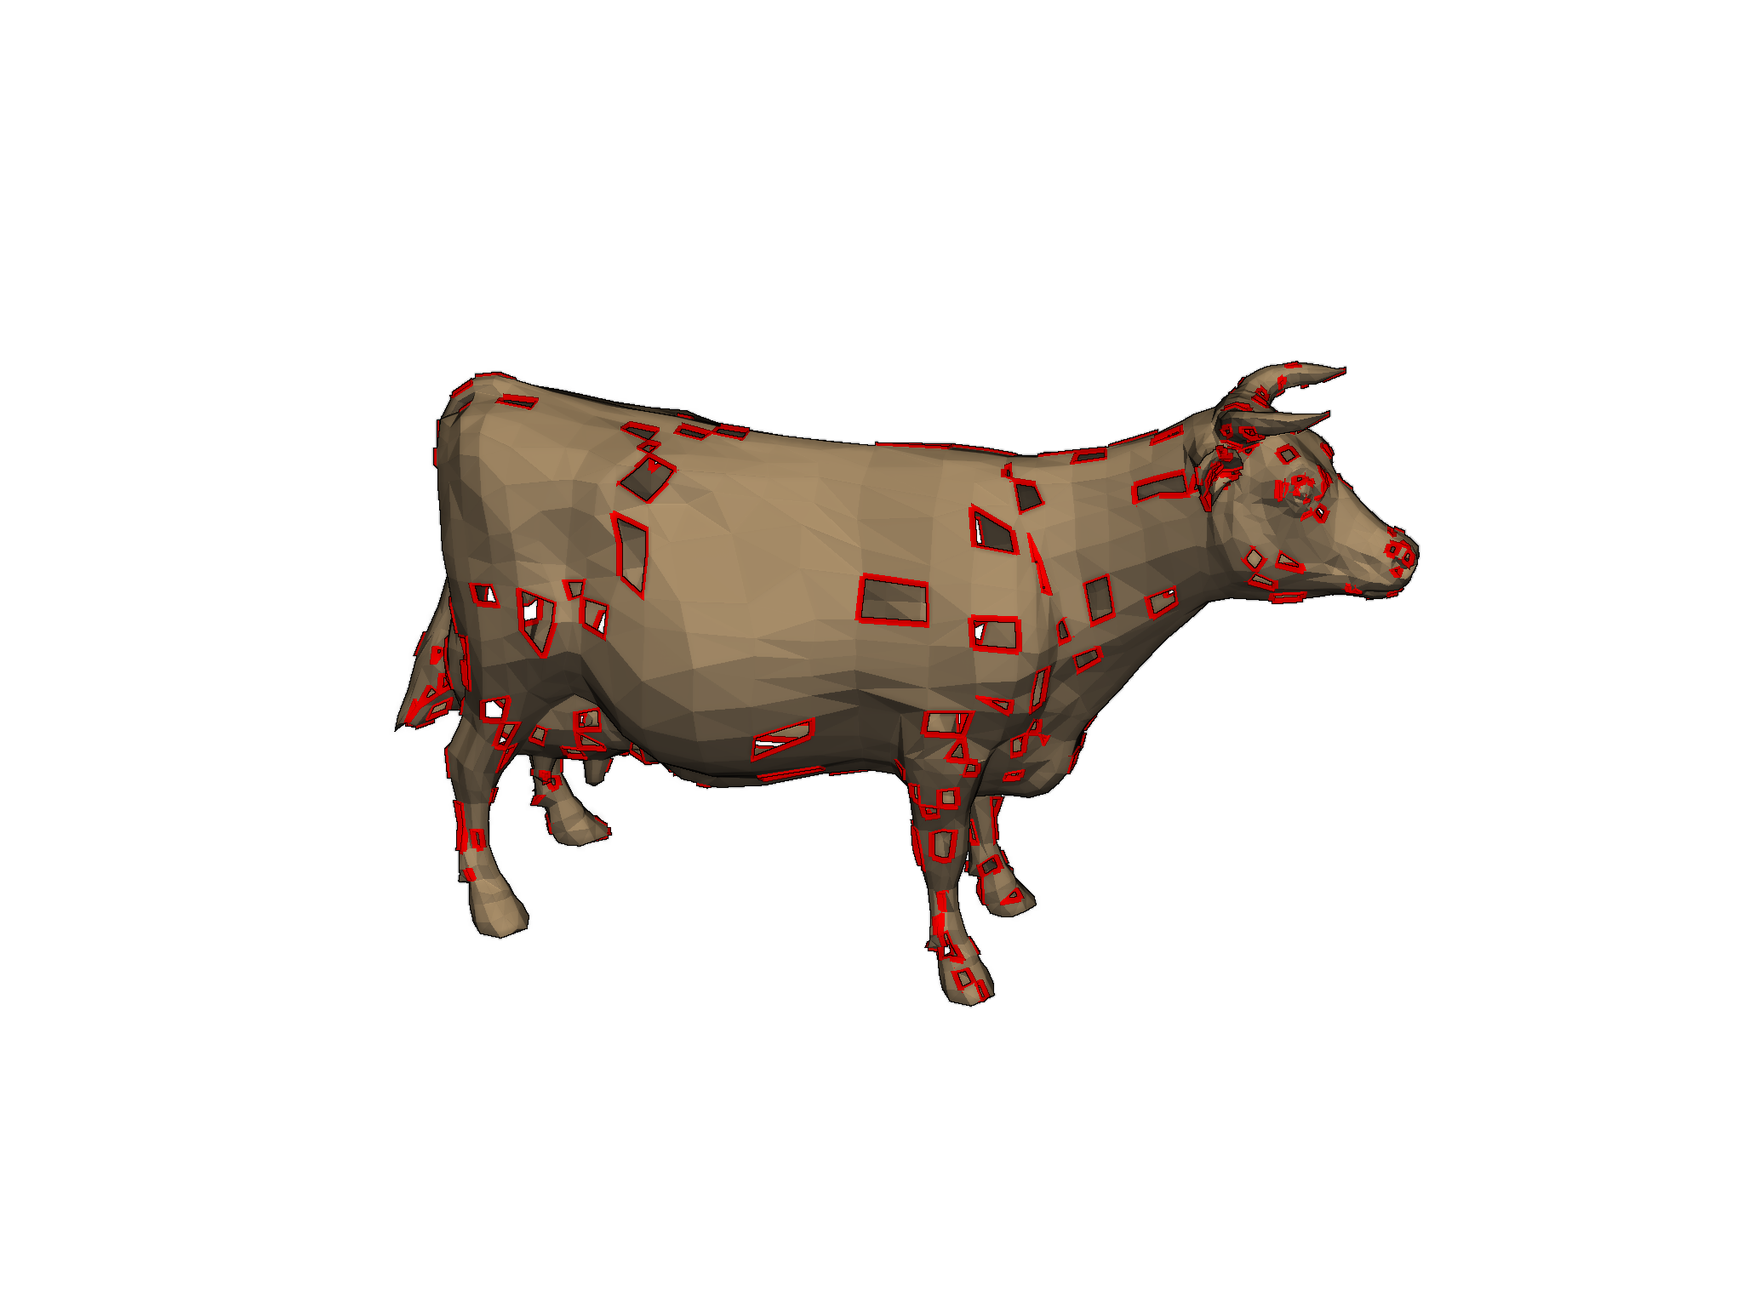
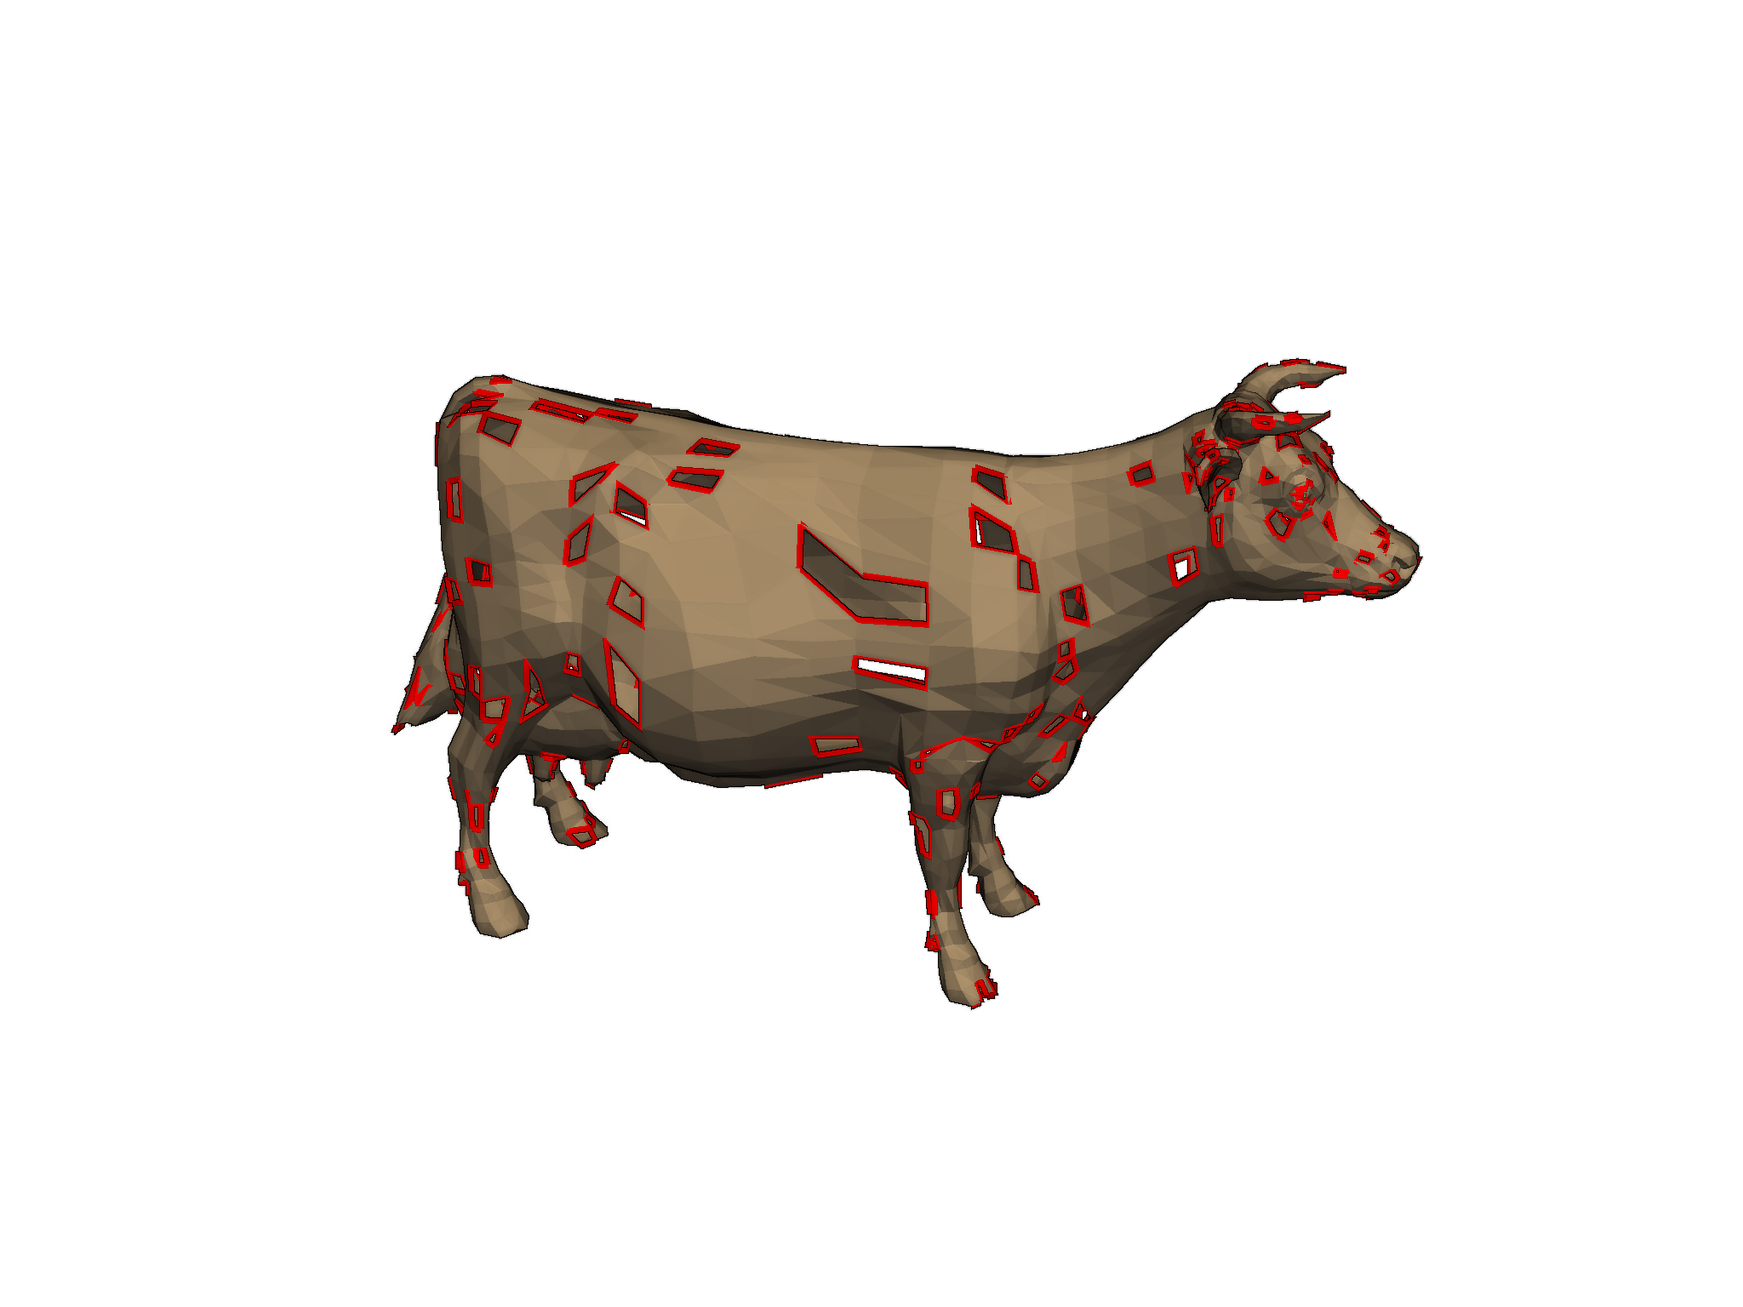
Update docs after building Travis build 119 of pyvista/pymeshfix
The docs were built from the branch 'master' against the commit
058998d0c117db93a4dd94bfe229dd86a3ef59d1.

The Travis build that generated this commit is at
https://travis-ci.org/pyvista/pymeshfix/jobs/648109961.

The doctr command that was run is

    /home/travis/virtualenv/python3.7.1/bin/doctr deploy --built-docs ./docs/_build/html/ .

diff --git a/searchindex.js b/searchindex.js
@@ -1,1 +1,1 @@
-Search.setIndex({docnames:["api","examples/bunny","examples/cow","examples/index","examples/repair_planar","examples/sg_execution_times","examples/torso","index"],envversion:{"sphinx.domains.c":1,"sphinx.domains.changeset":1,"sphinx.domains.cpp":1,"sphinx.domains.javascript":1,"sphinx.domains.math":2,"sphinx.domains.python":1,"sphinx.domains.rst":1,"sphinx.domains.std":1,sphinx:56},filenames:["api.rst","examples/bunny.rst","examples/cow.rst","examples/index.rst","examples/repair_planar.rst","examples/sg_execution_times.rst","examples/torso.rst","index.rst"],objects:{"pymeshfix.MeshFix":{extract_holes:[0,1,1,""],load_arrays:[0,1,1,""],mesh:[0,2,1,""],plot:[0,1,1,""],repair:[0,1,1,""],save:[0,1,1,""],write:[0,1,1,""]},pymeshfix:{MeshFix:[0,0,1,""],_meshfix:[0,3,0,"-"],meshfix:[0,3,0,"-"]}},objnames:{"0":["py","class","Python class"],"1":["py","method","Python method"],"2":["py","attribute","Python attribute"],"3":["py","module","Python module"]},objtypes:{"0":"py:class","1":"py:method","2":"py:attribute","3":"py:module"},terms:{"083e":6,"0x7faf9ed27408":2,"0x7faf9ed27528":2,"0x7faf9ed276a8":6,"320e":6,"442e":6,"446e":2,"624e":6,"637e":2,"680e":6,"696e":2,"701e":2,"720e":6,"760e":2,"998e":2,"case":7,"class":0,"default":[0,4],"float":7,"import":[1,2,4,6,7],"new":0,"public":7,"return":[0,4,7],"true":[0,1,2,4,6],"while":7,FOR:7,One:7,The:7,There:7,These:4,_meshfix:[4,7],abov:7,absolut:6,access:[0,7],add:[2,4],add_mesh:[1,2,4,6],addit:0,again:7,agreement:7,algorithm:4,all:[0,4,7],allow:7,along:[4,6],altern:7,ani:7,appi:6,approach:7,arg:0,argument:0,arrai:[0,2,6,7],ascii:0,assum:7,attempt:[0,7],atten:[0,7],author:7,award:7,back:4,base:[0,7],been:7,befor:0,begin:0,bell:7,better:7,binari:0,bool:0,both:0,bound:[2,6,7],boundari:[0,4,7],bring:7,bunni:[3,5],cad:7,camera:[1,2],camera_posit:[1,2,6],can:[0,7],cannot:7,cast:2,cell:[2,6],charact:0,check:7,cite:7,clean:[0,7],clean_from_arrai:7,clean_from_fil:7,click:[1,2,4,6],clone:7,close:7,cnr:7,coars:7,code:[1,2,4,6],color:[1,2,4,6],com:7,commerci:7,commun:7,complex:6,compon:[0,6,7],comput:7,contain:0,contract:7,control:7,convert:4,copi:7,correct:7,could:7,cow:[3,5],cpo:[1,2,6],cpos_ear:6,creat:7,cython:[0,7],data:0,debug:0,defect:7,defin:1,degener:7,degeneraci:[1,2,6],densiti:4,deprec:0,depth:[1,2,4,6],design:7,detail:7,detect:4,digit:7,directli:7,disabl:0,disk:0,distribut:7,doi:7,download:[1,2,4,6],download_bunni:1,download_cow:2,download_torso:6,drive:7,dual:7,each:0,ear:6,eas:7,edg:4,either:[0,4,7],element:7,emphas:6,empti:4,enabl:0,enable_eye_dome_light:[1,2,4,6],ensur:6,even:7,exampl:[1,2,4,5,6],execut:5,extens:0,extra:4,extract:[0,1,6],extract_geometri:2,extract_hol:[0,1,2,4,6],eye_dome_light:6,face:[0,4,7],fail:7,fals:[0,4],faster:0,fclean:7,file:[0,5],filenam:0,filetyp:0,fill:[3,5,7],fill_small_boundari:[4,7],filter:6,fit:7,fix:[1,2,6],flaw:7,follow:[0,7],format:7,foundat:7,free:7,from:[0,1,2,4,6,7],ftype:0,full:[1,2,4,6],galleri:[1,2,3,4,6],gener:[1,2,3,4,6,7],git:7,github:7,gnu:7,gpl:7,hard:7,has:7,have:[4,7],help:[1,2,4,6],here:[1,2,4,6,7],hole:[0,1,2,3,5,6,7],holei:[3,5],holy_cow:2,hope:7,how:7,http:7,idea:7,imati:7,impli:7,includ:4,indic:0,infer:0,infil:7,inner:4,inner_loop:7,inplac:0,input:7,int32:7,interfac:[0,4],intersect:[1,2,6,7],invert:2,ipynb:[1,2,4,6],isol:0,join:[0,7],join_closest_compon:7,joincomp:0,jupyt:[1,2,4,6],keyword:0,kwarg:0,largest:[0,4],later:7,left:7,level:4,leverag:7,librari:7,licens:7,lightweight:7,limit:4,line:0,line_width:[1,2,4,6],list:7,load:[0,7],load_arrai:[0,7],load_fil:4,loadfil:7,locat:2,lower:4,mai:[0,7],main:7,marco:[0,7],max_it:7,memori:7,merchant:7,mesh:[0,1,2,4,6,7],meshfix:[0,1,2,4,6,7],method:0,mfix:4,might:7,minut:[1,2,4,6],model:7,modifi:7,modul:[0,7],more:7,most:4,much:0,must:7,n_cell:2,nativ:7,nbe:4,ndarrai:0,nearbi:[0,7],necessari:7,need:6,nice:2,note:[0,4],notebook:[1,2,4,6],number:4,numpi:[0,2,4,7],object:[0,4,7],occurr:7,one:0,onli:4,open:0,option:[0,7],org:7,orig_mesh:4,origin:4,other:7,out:[1,2,4,6,7],outfil:7,outlin:[1,2,4,6],output:[4,7],over:7,overridden:0,paper:7,paramet:0,part:[6,7],partial:[3,5],particular:7,patch:[1,2,4,6],percept:[1,2,4,6],perform:[0,7],perfrom:6,pip:7,planar:4,planar_mesh:4,pleas:7,plot:[0,1,2,4,6,7],plot_boundari:4,plotter:[1,2,4,6],ply:[0,7],point:[0,2,4,6],polydata:[0,2,4,6],polygon:7,polyhedr:6,polyhedron:7,portabl:7,posit:1,present:7,print:[0,2,6,7],process:0,produc:7,program:7,proper:7,publish:7,purpos:7,pymeshfix:[0,1,2,4,6],pypi:7,python:[0,1,2,4,6,7],pytmesh:[4,7],pyvista:[0,1,2,4,6,7],rand:2,random:2,raw:7,reach:7,read:[4,7],readi:1,reason:7,redistribut:7,refer:7,refin:4,region:7,remov:[0,4,6,7],remove_smallest_compon:0,render:[1,2,4],repair:[0,1,2,4,6,7],repair_planar:[4,5],repres:7,reproduc:4,requir:7,research:7,reserv:7,result:[2,7],return_arrai:[4,7],right:7,run:[1,2,4,6,7],s00371:7,same:7,sampl:4,save:[0,7],save_fil:7,script:[1,2,4,6],second:[1,2,4,6],see:7,seem:4,self:7,set:7,shape:4,should:[0,7],show:[0,1,2,4,6],show_edg:6,show_hol:0,simpl:0,simpli:6,singl:[4,7],singular:7,small:6,softwar:7,solid:7,some:4,sort:7,sourc:[1,2,4,6,7],specif:7,specifi:0,speed:7,sphinx:[1,2,3,4,6],sphinx_gallery_thumbnail_numb:[1,2,4,6],springer:7,stl:0,str:0,string:0,subtl:6,surfac:[0,7],surround:4,take:7,term:7,tessel:7,test:7,tetrahedr:0,than:0,thei:7,them:0,therefor:7,therein:7,thi:[0,4,6,7],three:0,threshold:2,thu:7,tight:6,time:[1,2,4,6],tin:7,tmesh:[4,7],torso:[3,5],total:[1,2,4,5,6],triangl:[0,4,6,7],triangul:[2,6],triangular:0,txt:7,type:0,typic:7,unavail:7,under:7,understand:7,unless:0,unmodifi:7,updat:0,use:7,used:7,useful:7,user:7,uses:[4,7],using:[0,7],vclean:7,verbos:[0,1,2,4,6],version:7,vert:4,vertex:[0,7],vertic:4,view:7,visual:7,vtk:[0,4],vtkinterfac:7,warranti:7,water:6,watertight:7,where:[6,7],wherebi:4,whistl:7,win:7,wish:7,with_vtk:7,within:7,wonder:7,work:7,wrap:0,wrapper:[0,7],write:[0,7],written:0,www:7,xyz:0,you:7,your:7},titles:["API Reference","Bunny","Holey Cow","Examples","Partial Fill Holes","Computation times","Torso","PyMeshFix"],titleterms:{algorithm:7,api:0,bunni:1,citat:7,complet:7,comput:5,copyright:7,cow:2,depend:7,easi:7,exampl:[3,7],fill:4,hole:4,holei:2,instal:7,partial:4,polici:7,pymeshfix:7,refer:0,time:5,torso:6,vtk:7,without:7}})
+Search.setIndex({docnames:["api","examples/bunny","examples/cow","examples/index","examples/repair_planar","examples/sg_execution_times","examples/torso","index"],envversion:{"sphinx.domains.c":1,"sphinx.domains.changeset":1,"sphinx.domains.cpp":1,"sphinx.domains.javascript":1,"sphinx.domains.math":2,"sphinx.domains.python":1,"sphinx.domains.rst":1,"sphinx.domains.std":1,sphinx:56},filenames:["api.rst","examples/bunny.rst","examples/cow.rst","examples/index.rst","examples/repair_planar.rst","examples/sg_execution_times.rst","examples/torso.rst","index.rst"],objects:{"pymeshfix.MeshFix":{extract_holes:[0,1,1,""],load_arrays:[0,1,1,""],mesh:[0,2,1,""],plot:[0,1,1,""],repair:[0,1,1,""],save:[0,1,1,""],write:[0,1,1,""]},pymeshfix:{MeshFix:[0,0,1,""],_meshfix:[0,3,0,"-"],meshfix:[0,3,0,"-"]}},objnames:{"0":["py","class","Python class"],"1":["py","method","Python method"],"2":["py","attribute","Python attribute"],"3":["py","module","Python module"]},objtypes:{"0":"py:class","1":"py:method","2":"py:attribute","3":"py:module"},terms:{"083e":6,"0x7fe2a2ba52e8":6,"0x7fe2a2ba5468":2,"0x7fe2a2ba57c8":2,"320e":6,"442e":6,"446e":2,"624e":6,"637e":2,"680e":6,"696e":2,"701e":2,"720e":6,"760e":2,"998e":2,"case":7,"class":0,"default":[0,4],"float":7,"import":[1,2,4,6,7],"new":0,"public":7,"return":[0,4,7],"true":[0,1,2,4,6],"while":7,FOR:7,One:7,The:7,There:7,These:4,_meshfix:[4,7],abov:7,absolut:6,access:[0,7],add:[2,4],add_mesh:[1,2,4,6],addit:0,again:7,agreement:7,algorithm:4,all:[0,4,7],allow:7,along:[4,6],altern:7,ani:7,appi:6,approach:7,arg:0,argument:0,arrai:[0,2,6,7],ascii:0,assum:7,attempt:[0,7],atten:[0,7],author:7,award:7,back:4,base:[0,7],been:7,befor:0,begin:0,bell:7,better:7,binari:0,bool:0,both:0,bound:[2,6,7],boundari:[0,4,7],bring:7,bunni:[3,5],cad:7,camera:[1,2],camera_posit:[1,2,6],can:[0,7],cannot:7,cast:2,cell:[2,6],charact:0,check:7,cite:7,clean:[0,7],clean_from_arrai:7,clean_from_fil:7,click:[1,2,4,6],clone:7,close:7,cnr:7,coars:7,code:[1,2,4,6],color:[1,2,4,6],com:7,commerci:7,commun:7,complex:6,compon:[0,2,6,7],comput:7,contain:0,contract:7,control:7,convert:4,copi:7,correct:7,could:7,cow:[3,5],cpo:[1,2,6],cpos_ear:6,creat:7,cython:[0,7],data:0,debug:0,defect:7,defin:1,degener:7,degeneraci:[1,2,6],densiti:4,deprec:0,depth:[1,2,4,6],design:7,detail:7,detect:4,digit:7,directli:7,disabl:0,disk:0,distribut:7,doi:7,download:[1,2,4,6],download_bunni:1,download_cow:2,download_torso:6,drive:7,dual:7,each:0,ear:6,eas:7,edg:4,either:[0,4,7],element:7,emphas:6,empti:4,enabl:0,enable_eye_dome_light:[1,2,4,6],ensur:6,even:7,exampl:[1,2,4,5,6],execut:5,extens:0,extra:4,extract:[0,1,6],extract_geometri:2,extract_hol:[0,1,2,4,6],eye_dome_light:6,face:[0,4,7],fail:7,fals:[0,4],faster:0,fclean:7,file:[0,5],filenam:0,filetyp:0,fill:[3,5,7],fill_small_boundari:[4,7],filter:6,fit:7,fix:[1,2,6],flaw:7,follow:[0,7],format:7,foundat:7,free:7,from:[0,1,2,4,6,7],ftype:0,full:[1,2,4,6],galleri:[1,2,3,4,6],gener:[1,2,3,4,6,7],git:7,github:7,gnu:7,gpl:7,hard:7,has:7,have:[4,7],help:[1,2,4,6],here:[1,2,4,6,7],hole:[0,1,2,3,5,6,7],holei:[3,5],holy_cow:2,hope:7,how:7,http:7,idea:7,imati:7,impli:7,includ:4,indic:0,infer:0,infil:7,inner:4,inner_loop:7,inplac:0,input:7,int32:7,interfac:[0,4],intersect:[1,2,6,7],invert:2,ipynb:[1,2,4,6],isol:0,join:[0,7],join_closest_compon:7,joincomp:0,jupyt:[1,2,4,6],keyword:0,kwarg:0,largest:[0,4],later:7,left:7,level:4,leverag:7,librari:7,licens:7,lightweight:7,limit:4,line:0,line_width:[1,2,4,6],list:7,load:[0,7],load_arrai:[0,7],load_fil:4,loadfil:7,locat:2,lower:4,mai:[0,7],main:7,marco:[0,7],max_it:7,memori:7,merchant:7,mesh:[0,1,2,4,6,7],meshfix:[0,1,2,4,6,7],method:0,mfix:4,might:7,minut:[1,2,4,6],model:7,modifi:7,modul:[0,7],more:7,most:4,much:0,must:7,n_cell:2,nativ:7,nbe:4,ndarrai:0,nearbi:[0,7],necessari:7,need:6,nice:2,note:[0,4],notebook:[1,2,4,6],number:4,numpi:[0,2,4,7],object:[0,4,7],occurr:7,one:0,onli:4,open:0,option:[0,7],org:7,orig_mesh:4,origin:4,other:7,out:[1,2,4,6,7],outfil:7,outlin:[1,2,4,6],output:[4,7],over:7,overridden:0,paper:7,paramet:0,part:[6,7],partial:[3,5],particular:7,patch:[1,2,4,6],percept:[1,2,4,6],perform:[0,7],perfrom:6,pip:7,planar:4,planar_mesh:4,pleas:7,plot:[0,1,2,4,6,7],plot_boundari:4,plotter:[1,2,4,6],ply:[0,7],point:[0,2,4,6],polydata:[0,2,4,6],polygon:7,polyhedr:6,polyhedron:7,portabl:7,posit:1,present:7,print:[0,2,6,7],process:0,produc:7,program:7,proper:7,publish:7,purpos:7,pymeshfix:[0,1,2,4,6],pypi:7,python:[0,1,2,4,6,7],pytmesh:[4,7],pyvista:[0,1,2,4,6,7],rand:2,random:2,raw:7,reach:7,read:[4,7],readi:1,reason:7,redistribut:7,refer:7,refin:4,region:7,remov:[0,2,4,6,7],remove_smallest_compon:0,render:[1,2,4],repair:[0,1,2,4,6,7],repair_planar:[4,5],repres:7,reproduc:4,requir:7,research:7,reserv:7,result:[2,7],return_arrai:[4,7],right:7,run:[1,2,4,6,7],s00371:7,same:7,sampl:4,save:[0,7],save_fil:7,script:[1,2,4,6],second:[1,2,4,6],see:7,seem:4,self:7,set:7,shape:4,should:[0,7],show:[0,1,2,4,6],show_edg:6,show_hol:0,simpl:0,simpli:6,singl:[4,7],singular:7,small:[2,6],softwar:7,solid:7,some:4,sort:7,sourc:[1,2,4,6,7],specif:7,specifi:0,speed:7,sphinx:[1,2,3,4,6],sphinx_gallery_thumbnail_numb:[1,2,4,6],springer:7,stl:0,str:0,string:0,subtl:6,surfac:[0,7],surround:4,take:7,term:7,tessel:7,test:7,tetrahedr:0,than:0,thei:7,them:0,therefor:7,therein:7,thi:[0,4,6,7],three:0,threshold:2,thu:7,tight:6,time:[1,2,4,6],tin:7,tmesh:[4,7],torso:[3,5],total:[1,2,4,5,6],triangl:[0,4,6,7],triangul:[2,6],triangular:0,txt:7,type:0,typic:7,unavail:7,under:7,understand:7,unless:0,unmodifi:7,updat:0,use:7,used:7,useful:7,user:7,uses:[4,7],using:[0,7],vclean:7,verbos:[0,1,2,4,6],version:7,vert:4,vertex:[0,7],vertic:4,view:7,visual:7,vtk:[0,4],vtkinterfac:7,warranti:7,water:6,watertight:7,where:[6,7],wherebi:4,whistl:7,win:7,wish:7,with_vtk:7,within:7,wonder:7,work:7,wrap:0,wrapper:[0,7],write:[0,7],written:0,www:7,xyz:0,you:7,your:7},titles:["API Reference","Bunny","Holey Cow","Examples","Partial Fill Holes","Computation times","Torso","PyMeshFix"],titleterms:{algorithm:7,api:0,bunni:1,citat:7,complet:7,comput:5,copyright:7,cow:2,depend:7,easi:7,exampl:[3,7],fill:4,hole:4,holei:2,instal:7,partial:4,polici:7,pymeshfix:7,refer:0,time:5,torso:6,vtk:7,without:7}})

diff --git a/examples/cow.html b/examples/cow.html
@@ -225,9 +225,9 @@
 </pre></div>
 </div>
 <p class="sphx-glr-script-out">Out:</p>
-<div class="sphx-glr-script-out highlight-none notranslate"><div class="highlight"><pre><span></span>PolyData (0x7faf9ed27408)
-  N Cells:      5169
-  N Points:     2903
+<div class="sphx-glr-script-out highlight-none notranslate"><div class="highlight"><pre><span></span>PolyData (0x7fe2a2ba5468)
+  N Cells:      5188
+  N Points:     2902
   X Bounds:     -4.446e+00, 5.998e+00
   Y Bounds:     -3.637e+00, 2.760e+00
   Z Bounds:     -1.701e+00, 1.701e+00
@@ -263,8 +263,9 @@
 </pre></div>
 </div>
 <p class="sphx-glr-script-out">Out:</p>
-<div class="sphx-glr-script-out highlight-none notranslate"><div class="highlight"><pre><span></span>Patching holes...
-Patched 216 holes
+<div class="sphx-glr-script-out highlight-none notranslate"><div class="highlight"><pre><span></span>Removed 2 small components
+Patching holes...
+Patched 193 holes
 Fixing degeneracies and intersections
 </pre></div>
 </div>
@@ -274,9 +275,9 @@ Fixing degeneracies and intersections
 </pre></div>
 </div>
 <p class="sphx-glr-script-out">Out:</p>
-<div class="sphx-glr-script-out highlight-none notranslate"><div class="highlight"><pre><span></span>PolyData (0x7faf9ed27528)
-  N Cells:      5454
-  N Points:     2729
+<div class="sphx-glr-script-out highlight-none notranslate"><div class="highlight"><pre><span></span>PolyData (0x7fe2a2ba57c8)
+  N Cells:      5444
+  N Points:     2724
   X Bounds:     -3.696e+00, 5.998e+00
   Y Bounds:     -3.637e+00, 2.760e+00
   Z Bounds:     -1.701e+00, 1.701e+00
@@ -293,7 +294,7 @@ Fixing degeneracies and intersections
  (-0.12972139816963404, 0.928006925367382, -0.34924991814901474)]
 </pre></div>
 </div>
-<p class="sphx-glr-timing"><strong>Total running time of the script:</strong> ( 0 minutes  9.553 seconds)</p>
+<p class="sphx-glr-timing"><strong>Total running time of the script:</strong> ( 0 minutes  9.256 seconds)</p>
 <div class="sphx-glr-footer class sphx-glr-footer-example docutils container" id="sphx-glr-download-examples-cow-py">
 <div class="sphx-glr-download docutils container">
 <p><a class="reference download internal" download="" href="../_downloads/700f1bf357ea69088c0a34b0aa306d26/cow.py"><code class="xref download docutils literal notranslate"><span class="pre">Download</span> <span class="pre">Python</span> <span class="pre">source</span> <span class="pre">code:</span> <span class="pre">cow.py</span></code></a></p>

diff --git a/examples/sg_execution_times.html b/examples/sg_execution_times.html
@@ -194,7 +194,7 @@
             
   <div class="section" id="computation-times">
 <span id="sphx-glr-examples-sg-execution-times"></span><h1>Computation times<a class="headerlink" href="#computation-times" title="Permalink to this headline">¶</a></h1>
-<p><strong>01:12.709</strong> total execution time for <strong>examples</strong> files:</p>
+<p><strong>01:10.230</strong> total execution time for <strong>examples</strong> files:</p>
 <table class="docutils align-center">
 <colgroup>
 <col style="width: 78%" />
@@ -203,19 +203,19 @@
 </colgroup>
 <tbody>
 <tr class="row-odd"><td><p><a class="reference internal" href="torso.html#sphx-glr-examples-torso-py"><span class="std std-ref">Torso</span></a> (<code class="docutils literal notranslate"><span class="pre">torso.py</span></code>)</p></td>
-<td><p>00:28.666</p></td>
+<td><p>00:27.995</p></td>
 <td><p>0.0 MB</p></td>
 </tr>
 <tr class="row-even"><td><p><a class="reference internal" href="bunny.html#sphx-glr-examples-bunny-py"><span class="std std-ref">Bunny</span></a> (<code class="docutils literal notranslate"><span class="pre">bunny.py</span></code>)</p></td>
-<td><p>00:19.042</p></td>
+<td><p>00:17.820</p></td>
 <td><p>0.0 MB</p></td>
 </tr>
 <tr class="row-odd"><td><p><a class="reference internal" href="repair_planar.html#sphx-glr-examples-repair-planar-py"><span class="std std-ref">Partial Fill Holes</span></a> (<code class="docutils literal notranslate"><span class="pre">repair_planar.py</span></code>)</p></td>
-<td><p>00:15.447</p></td>
+<td><p>00:15.158</p></td>
 <td><p>0.0 MB</p></td>
 </tr>
 <tr class="row-even"><td><p><a class="reference internal" href="cow.html#sphx-glr-examples-cow-py"><span class="std std-ref">Holey Cow</span></a> (<code class="docutils literal notranslate"><span class="pre">cow.py</span></code>)</p></td>
-<td><p>00:09.553</p></td>
+<td><p>00:09.256</p></td>
 <td><p>0.0 MB</p></td>
 </tr>
 </tbody>

diff --git a/examples/torso.html b/examples/torso.html
@@ -221,7 +221,7 @@ parts of the mesh</p>
 </pre></div>
 </div>
 <p class="sphx-glr-script-out">Out:</p>
-<div class="sphx-glr-script-out highlight-none notranslate"><div class="highlight"><pre><span></span>PolyData (0x7faf9ed276a8)
+<div class="sphx-glr-script-out highlight-none notranslate"><div class="highlight"><pre><span></span>PolyData (0x7fe2a2ba52e8)
   N Cells:      12448
   N Points:     12015
   X Bounds:     -1.680e+02, 1.720e+02
@@ -308,7 +308,7 @@ Fixing degeneracies and intersections
  (0.11728686797794724, 0.17593030196692086, 0.9773905664828937)]
 </pre></div>
 </div>
-<p class="sphx-glr-timing"><strong>Total running time of the script:</strong> ( 0 minutes  28.666 seconds)</p>
+<p class="sphx-glr-timing"><strong>Total running time of the script:</strong> ( 0 minutes  27.995 seconds)</p>
 <div class="sphx-glr-footer class sphx-glr-footer-example docutils container" id="sphx-glr-download-examples-torso-py">
 <div class="sphx-glr-download docutils container">
 <p><a class="reference download internal" download="" href="../_downloads/988781b05954ec5068adbfe7a980b827/torso.py"><code class="xref download docutils literal notranslate"><span class="pre">Download</span> <span class="pre">Python</span> <span class="pre">source</span> <span class="pre">code:</span> <span class="pre">torso.py</span></code></a></p>

diff --git a/examples/repair_planar.html b/examples/repair_planar.html
@@ -270,7 +270,7 @@ either.</p>
 </pre></div>
 </div>
 <img alt="../_images/sphx_glr_repair_planar_002.png" class="sphx-glr-single-img" src="../_images/sphx_glr_repair_planar_002.png" />
-<p class="sphx-glr-timing"><strong>Total running time of the script:</strong> ( 0 minutes  15.447 seconds)</p>
+<p class="sphx-glr-timing"><strong>Total running time of the script:</strong> ( 0 minutes  15.158 seconds)</p>
 <div class="sphx-glr-footer class sphx-glr-footer-example docutils container" id="sphx-glr-download-examples-repair-planar-py">
 <div class="sphx-glr-download docutils container">
 <p><a class="reference download internal" download="" href="../_downloads/da5991b1214402a686786479f92b68ee/repair_planar.py"><code class="xref download docutils literal notranslate"><span class="pre">Download</span> <span class="pre">Python</span> <span class="pre">source</span> <span class="pre">code:</span> <span class="pre">repair_planar.py</span></code></a></p>

diff --git a/examples/bunny.html b/examples/bunny.html
@@ -275,7 +275,7 @@ Fixing degeneracies and intersections
  (0.2863710324052292, 0.2659159586619985, 0.9204783184453794)]
 </pre></div>
 </div>
-<p class="sphx-glr-timing"><strong>Total running time of the script:</strong> ( 0 minutes  19.042 seconds)</p>
+<p class="sphx-glr-timing"><strong>Total running time of the script:</strong> ( 0 minutes  17.820 seconds)</p>
 <div class="sphx-glr-footer class sphx-glr-footer-example docutils container" id="sphx-glr-download-examples-bunny-py">
 <div class="sphx-glr-download docutils container">
 <p><a class="reference download internal" download="" href="../_downloads/81a10a6450959c49a589aa8cee630836/bunny.py"><code class="xref download docutils literal notranslate"><span class="pre">Download</span> <span class="pre">Python</span> <span class="pre">source</span> <span class="pre">code:</span> <span class="pre">bunny.py</span></code></a></p>
